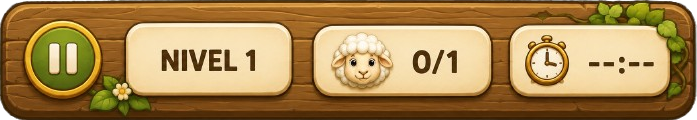
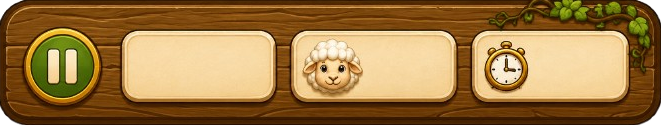
chore: improve oaie game

diff --git a/src/components/games/GasesteOaia/GameHud.tsx b/src/components/games/GasesteOaia/GameHud.tsx
@@ -1,4 +1,4 @@
-import { Image, StyleSheet, TouchableOpacity, View } from "react-native";
+import { ImageBackground, StyleSheet, Text, TouchableOpacity, View } from "react-native";
 
 type Props = {
   level: number;
@@ -15,23 +15,28 @@ export default function GameHUD({
 }: Props) {
   return (
     <View style={styles.container}>
-      <Image
+      {/* Am schimbat Image cu ImageBackground ca să poți pune elemente înăuntru */}
+      <ImageBackground
         source={require("@/assets/images/oaie/NavbarOaie.png")}
         style={styles.navbar}
-        resizeMode="cover"
-      />
+        resizeMode="contain" // "contain" menține proporțiile corecte ale bănii de lemn
+      >
+        {/* Buton Pauză */}
+        <TouchableOpacity
+          style={styles.pauseButton}
+          onPress={onPause}
+        />
 
-      {/* Buton Pauză */}
-      <TouchableOpacity
-        style={styles.pauseButton}
-        onPress={onPause}
-      />
+        {/* Casetă care acoperă textul vechi și afișează Nivelul Dinamic */}
+        <TouchableOpacity
+          style={styles.levelContainer}
+          onPress={onLevels}
+          activeOpacity={0.8}
+        >
+          <Text style={styles.levelText}>NIVEL {level}</Text>
+        </TouchableOpacity>
 
-      {/* Buton Selectare Nivel */}
-      <TouchableOpacity
-        style={styles.levelButton}
-        onPress={onLevels}
-      />
+      </ImageBackground>
     </View>
   );
 }
@@ -44,26 +49,40 @@ const styles = StyleSheet.create({
     right: 0,
     alignItems: "center",
     zIndex: 1111,
+    paddingHorizontal: 20, // Oferă spațiu pe margini pe ecrane mai mici
   },
 
   navbar: {
     width: "100%",
     height: 70,
+    flexDirection: "row", // Aliniază elementele intern pe orizontală
+    alignItems: "center",
   },
 
   pauseButton: {
     position: "absolute",
-    left: 15,
-    top: 10,
+    left: "3.5%", // Folosim procente ca butonul să pice mereu pe cercul verde, indiferent de ecran
     width: 50,
     height: 50,
+    borderRadius: 25, // Îl face rotund ca să se potrivească pe cercul verde
   },
 
-  levelButton: {
+  levelContainer: {
     position: "absolute",
-    left: 75,
-    top: 13,
-    width: 100,
-    height: 50,
+    left: "18%", // Poziționat procentual exact peste primul chenar alb din imagine
+    width: "25%", // Lățimea aproximativă a chenarului alb din imagine
+    height: 42,
+    borderRadius: 14, // Rotunjirea colțurilor pentru a imita chenarul din spate
+    alignItems: "center",
+    justifyContent: "center",
+    // Adăugăm o mică bordură discretă dacă vrei să se îmbine mai bine cu designul
+  },
+
+  levelText: {
+    color: "#4A2E16", // Maro închis identic cu cel din jocul tău
+    fontSize: 16,
+    fontWeight: "900", // Face textul foarte gros (Bold)
+    textAlign: "center",
+    textTransform: "uppercase",
   },
 });

diff --git a/src/components/games/GasesteOaia/GasesteOaia.tsx b/src/components/games/GasesteOaia/GasesteOaia.tsx
@@ -1,7 +1,8 @@
 import { ImageBackground } from "expo-image";
 import { useState } from "react";
-import { Pressable, StyleSheet, View } from "react-native";
+import { Image, Pressable, StyleSheet, TouchableOpacity, View } from "react-native";
 
+import { router } from "expo-router";
 import GameHUD from "./GameHud";
 import { levels } from "./levels";
 import LevelSelectOverlay from "./LevelSelectOverlay";
@@ -68,10 +69,16 @@ const handleBackgroundPress = (event: any) => {
   }
 };
 
-
+const handleBackButton = () => {
+    router.back(); 
+  };
 
   return (
     <View style={styles.container}>
+
+    <TouchableOpacity onPress={handleBackButton} style={styles.backButton}>
+      <Image source={require("@/assets/images/oaie/BackOaie.png")} style={styles.back} />
+    </TouchableOpacity>
       
       <Pressable style={styles.pressableArea} onPress={handleBackgroundPress}>
         <ImageBackground
@@ -147,5 +154,17 @@ const styles = StyleSheet.create({
     borderWidth: 4,
     borderColor: '#f1c40f',
     backgroundColor: 'rgba(241, 196, 15, 0.2)',
+  },
+  backButton:{
+    position: 'absolute',
+    top: 100,
+    left: 30,
+    width: 50,
+    height: 50,
+    zIndex: 1000,
+  },
+  back: {
+    width: 50,
+    height: 50,
   },
 });

diff --git a/src/components/games/GasesteOaia/levels.ts b/src/components/games/GasesteOaia/levels.ts
@@ -60,4 +60,16 @@ export const levels: Level[] = [
       height: 45,
     },
   },
+
+  {
+    id: 5,
+    image: require("@/assets/images/oaie/Oaie5.png"),
+
+    sheep: {
+      x: 386,
+      y: 517,
+      width: 45,
+      height: 45,
+    },
+  },
 ];

diff --git a/src/components/games/GasesteOaia/levels/level5.ts b/src/components/games/GasesteOaia/levels/level5.ts
@@ -1,7 +1,7 @@
 export default {
     id: 1,
 
-    image: require('@/assets/images/oaie/Oaie1.png'),
+    image: require('@/assets/images/oaie/Oaie5.png'),
 
     sheep: {
         x: 238,

diff --git a/src/components/games/GasesteOaia/levels/lever3.ts b/src/components/games/GasesteOaia/levels/lever3.ts
@@ -1,7 +1,7 @@
 export default {
     id: 3,
 
-    image: require('@/assets/images/oaie/Oaie1.png'),
+    image: require('@/assets/images/oaie/Oaie3.png'),
 
     sheep: {
         x: 238,

diff --git a/src/components/games/GasesteOaia/levels/lever4.ts b/src/components/games/GasesteOaia/levels/lever4.ts
@@ -1,7 +1,7 @@
 export default {
     id: 4,
 
-    image: require('@/assets/images/oaie/Oaie1.png'),
+    image: require('@/assets/images/oaie/Oaie4.png'),
 
     sheep: {
         x: 238,